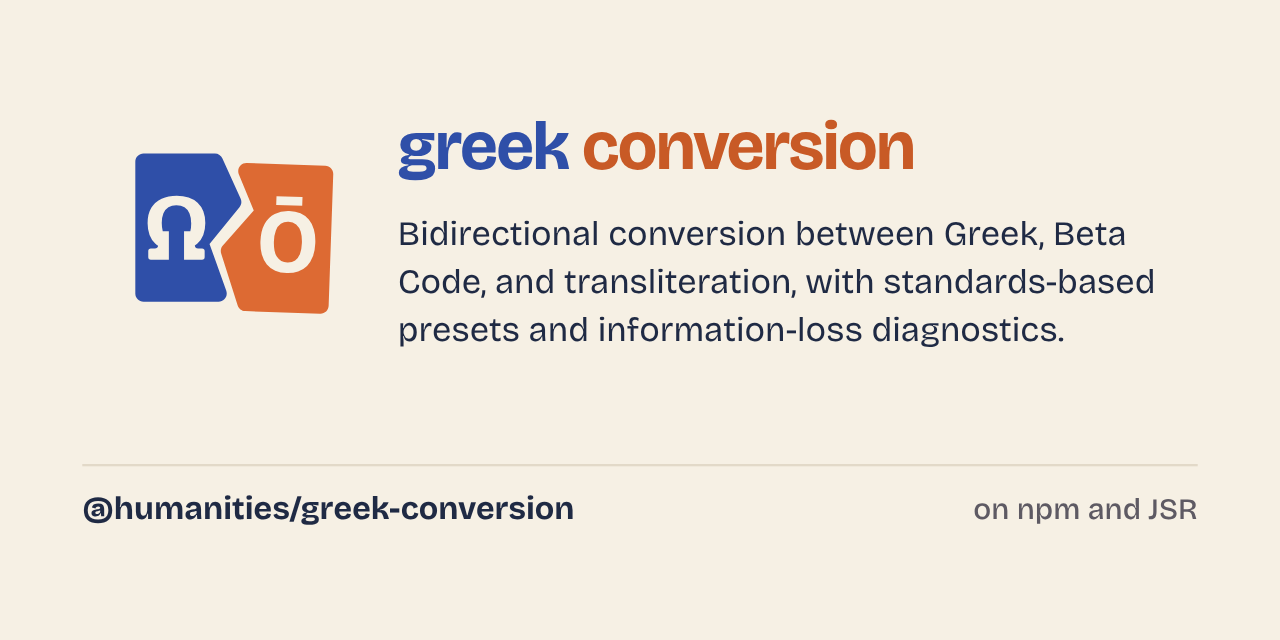
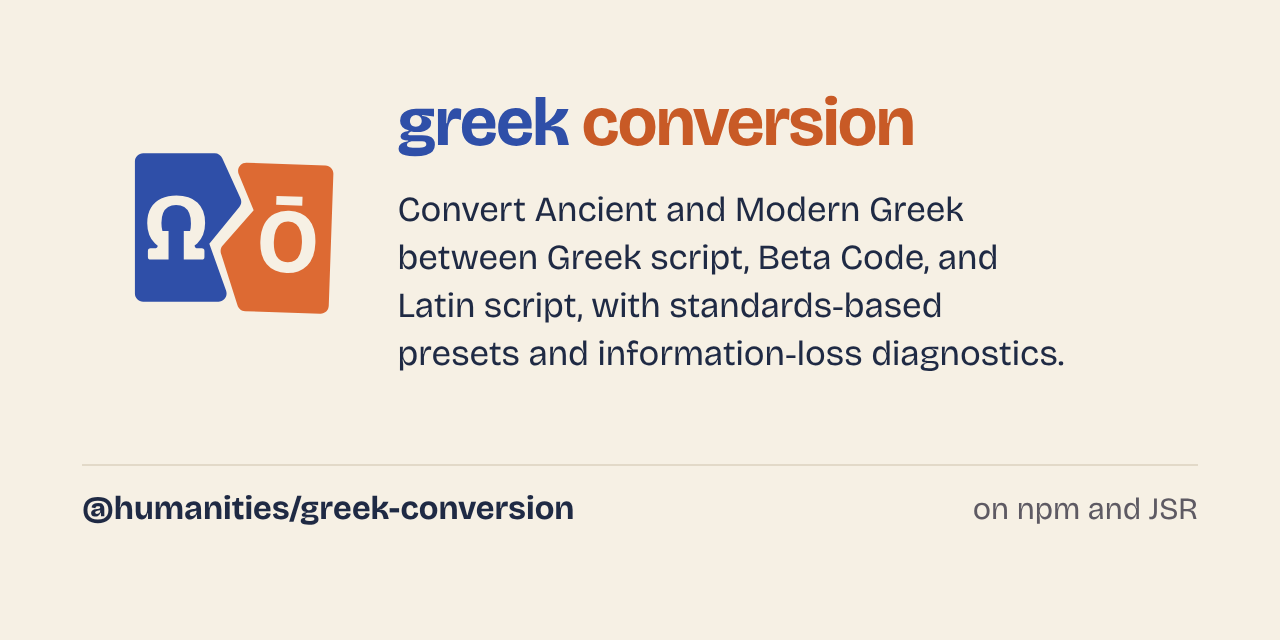
Social card: the new sentence, and its text alternative
The card is the design system's template (1280 × 640: symbol, name,
description, then the package and where it is published), rebuilt from
the measurements of the previous card: rendered with the old sentence,
it matches it to the pixel for the symbol, the name, and the foot. The
new sentence takes four lines, balanced, with "Greek script", "Latin
script", "standards-based", and "information-loss diagnostics" kept
together; the text block stays centred on the symbol.

The text alternative of the card, in the site and the playground, gives
the sentence after "greek conversion:", and scripts/check_metadata.ts
checks it with the other copies.

Claude-Session: https://claude.ai/code/session_01HZH32SzCwF6RfYryjVhHs1

diff --git a/scripts/check_metadata.ts b/scripts/check_metadata.ts
@@ -7,7 +7,9 @@
  * `description` of `package.json`: the README's tagline, the home page of the
  * site, and the documentation of the main module repeat it; the description
  * of the site and the abstract of `CITATION.cff`, read without context,
- * repeat it after "A TypeScript library that converts".
+ * repeat it after "A TypeScript library that converts"; the text alternative
+ * of the social card, in the site and the playground, after "greek
+ * conversion: ". The card itself, an image, is checked by eye.
  *
  * Run with `node scripts/check_metadata.ts`.
  */
@@ -81,6 +83,21 @@ expect(
   "the description of the site's home page",
   plain(home.match(/^description: (.*)$/m)?.[1]),
   library,
+);
+const card = "greek conversion: " + sentence[0].toLowerCase() +
+  sentence.slice(1);
+const playground = await read("web/playground/index.html");
+expect(
+  "the text alternative of the site's social card",
+  plain(site.match(/"og:image:alt",\s*"([^"]*)"/)?.[1]),
+  card,
+);
+expect(
+  "the text alternative of the playground's social card",
+  plain(
+    playground.match(/property="og:image:alt"\s+content="([^"]*)"/)?.[1],
+  ),
+  card,
 );
 expect(
   "the first sentence of the CITATION.cff abstract",

diff --git a/web/playground/index.html b/web/playground/index.html
@@ -39,7 +39,7 @@
     <meta property="og:image:width" content="1280">
     <meta property="og:image:height" content="640">
     <meta property="og:image:alt"
-      content="greek conversion: bidirectional conversion between Greek, Beta Code, and transliteration.">
+      content="greek conversion: convert Ancient and Modern Greek between Greek script, Beta Code, and Latin script, with standards-based presets and information-loss diagnostics.">
     <meta name="twitter:card" content="summary_large_image">
     <title>Playground | greek conversion</title>
     <link rel="icon" type="image/svg+xml"

diff --git a/CHANGELOG.md b/CHANGELOG.md
@@ -65,8 +65,9 @@ change.
   `description`, the README's tagline, the text of the site's home page, and
   the documentation of the main module; the description of the site and the
   abstract of `CITATION.cff` give it after "A TypeScript library that
-  converts". `npm run check` keeps the copies identical. The playground's
-  description follows it.
+  converts". The social card shows it, on four balanced lines, and its text
+  alternative gives it after "greek conversion:". `npm run check` keeps the
+  copies identical. The playground's description follows it.
 
 ### Added
 
